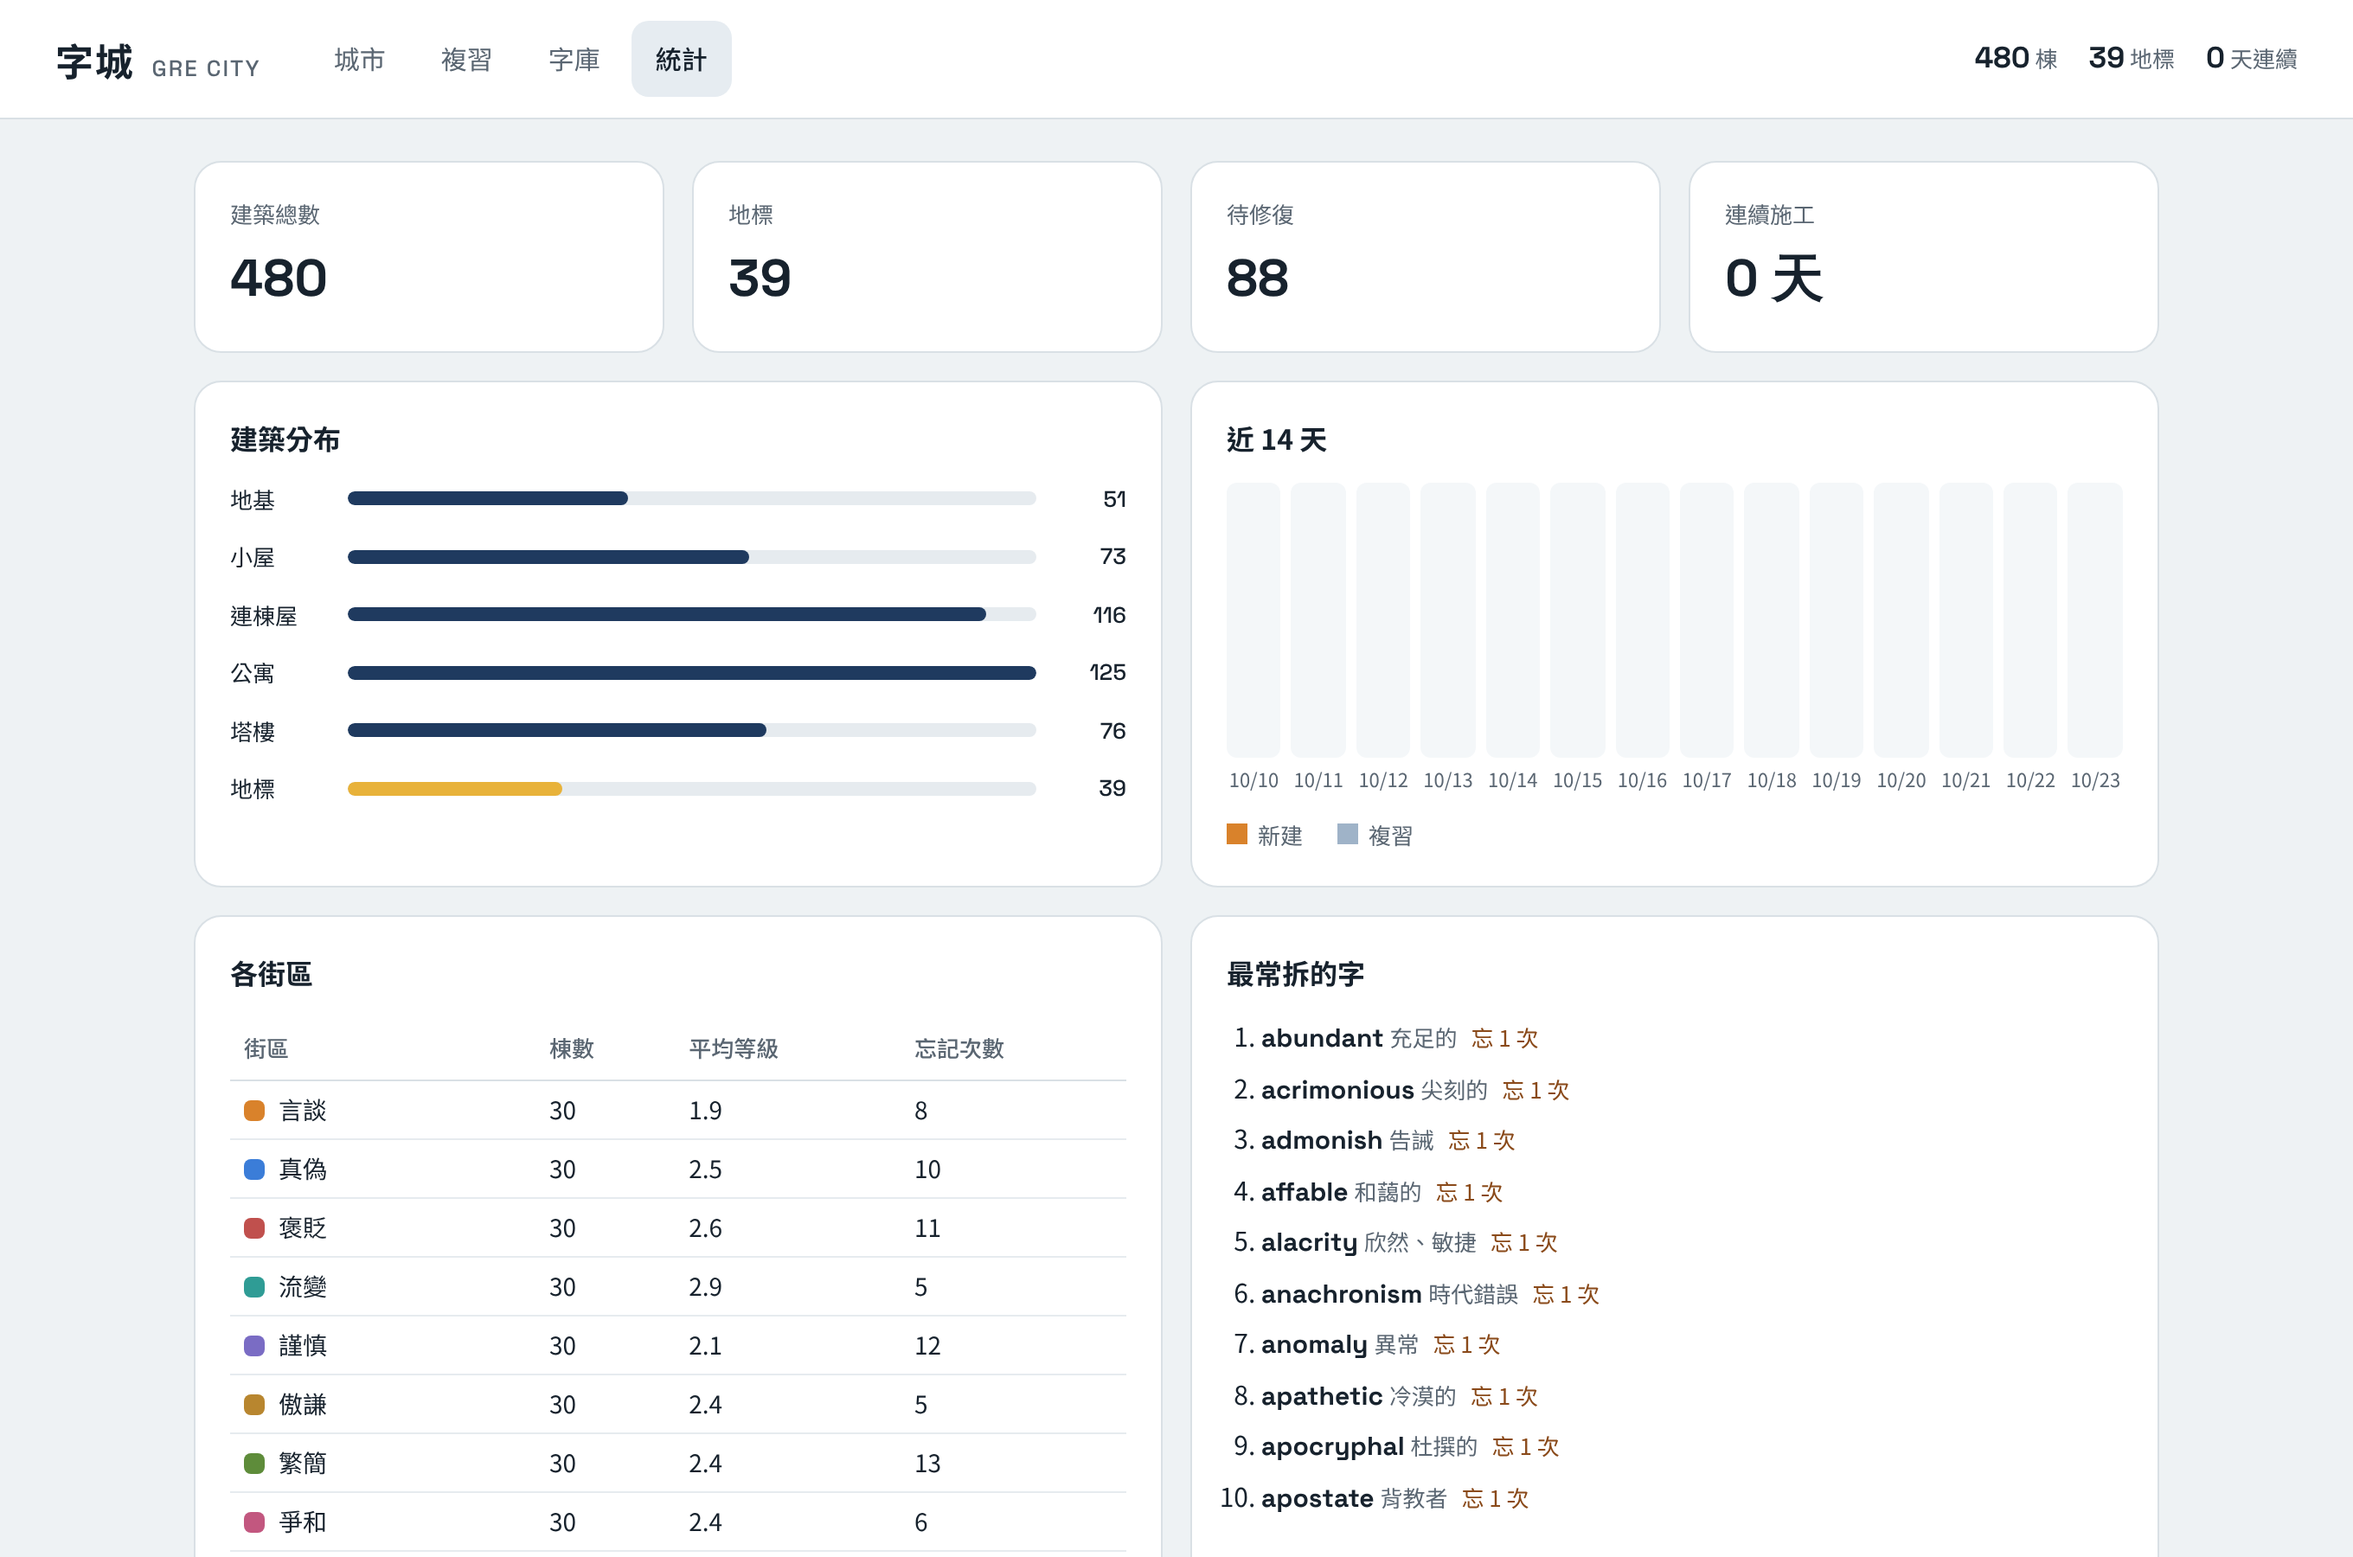
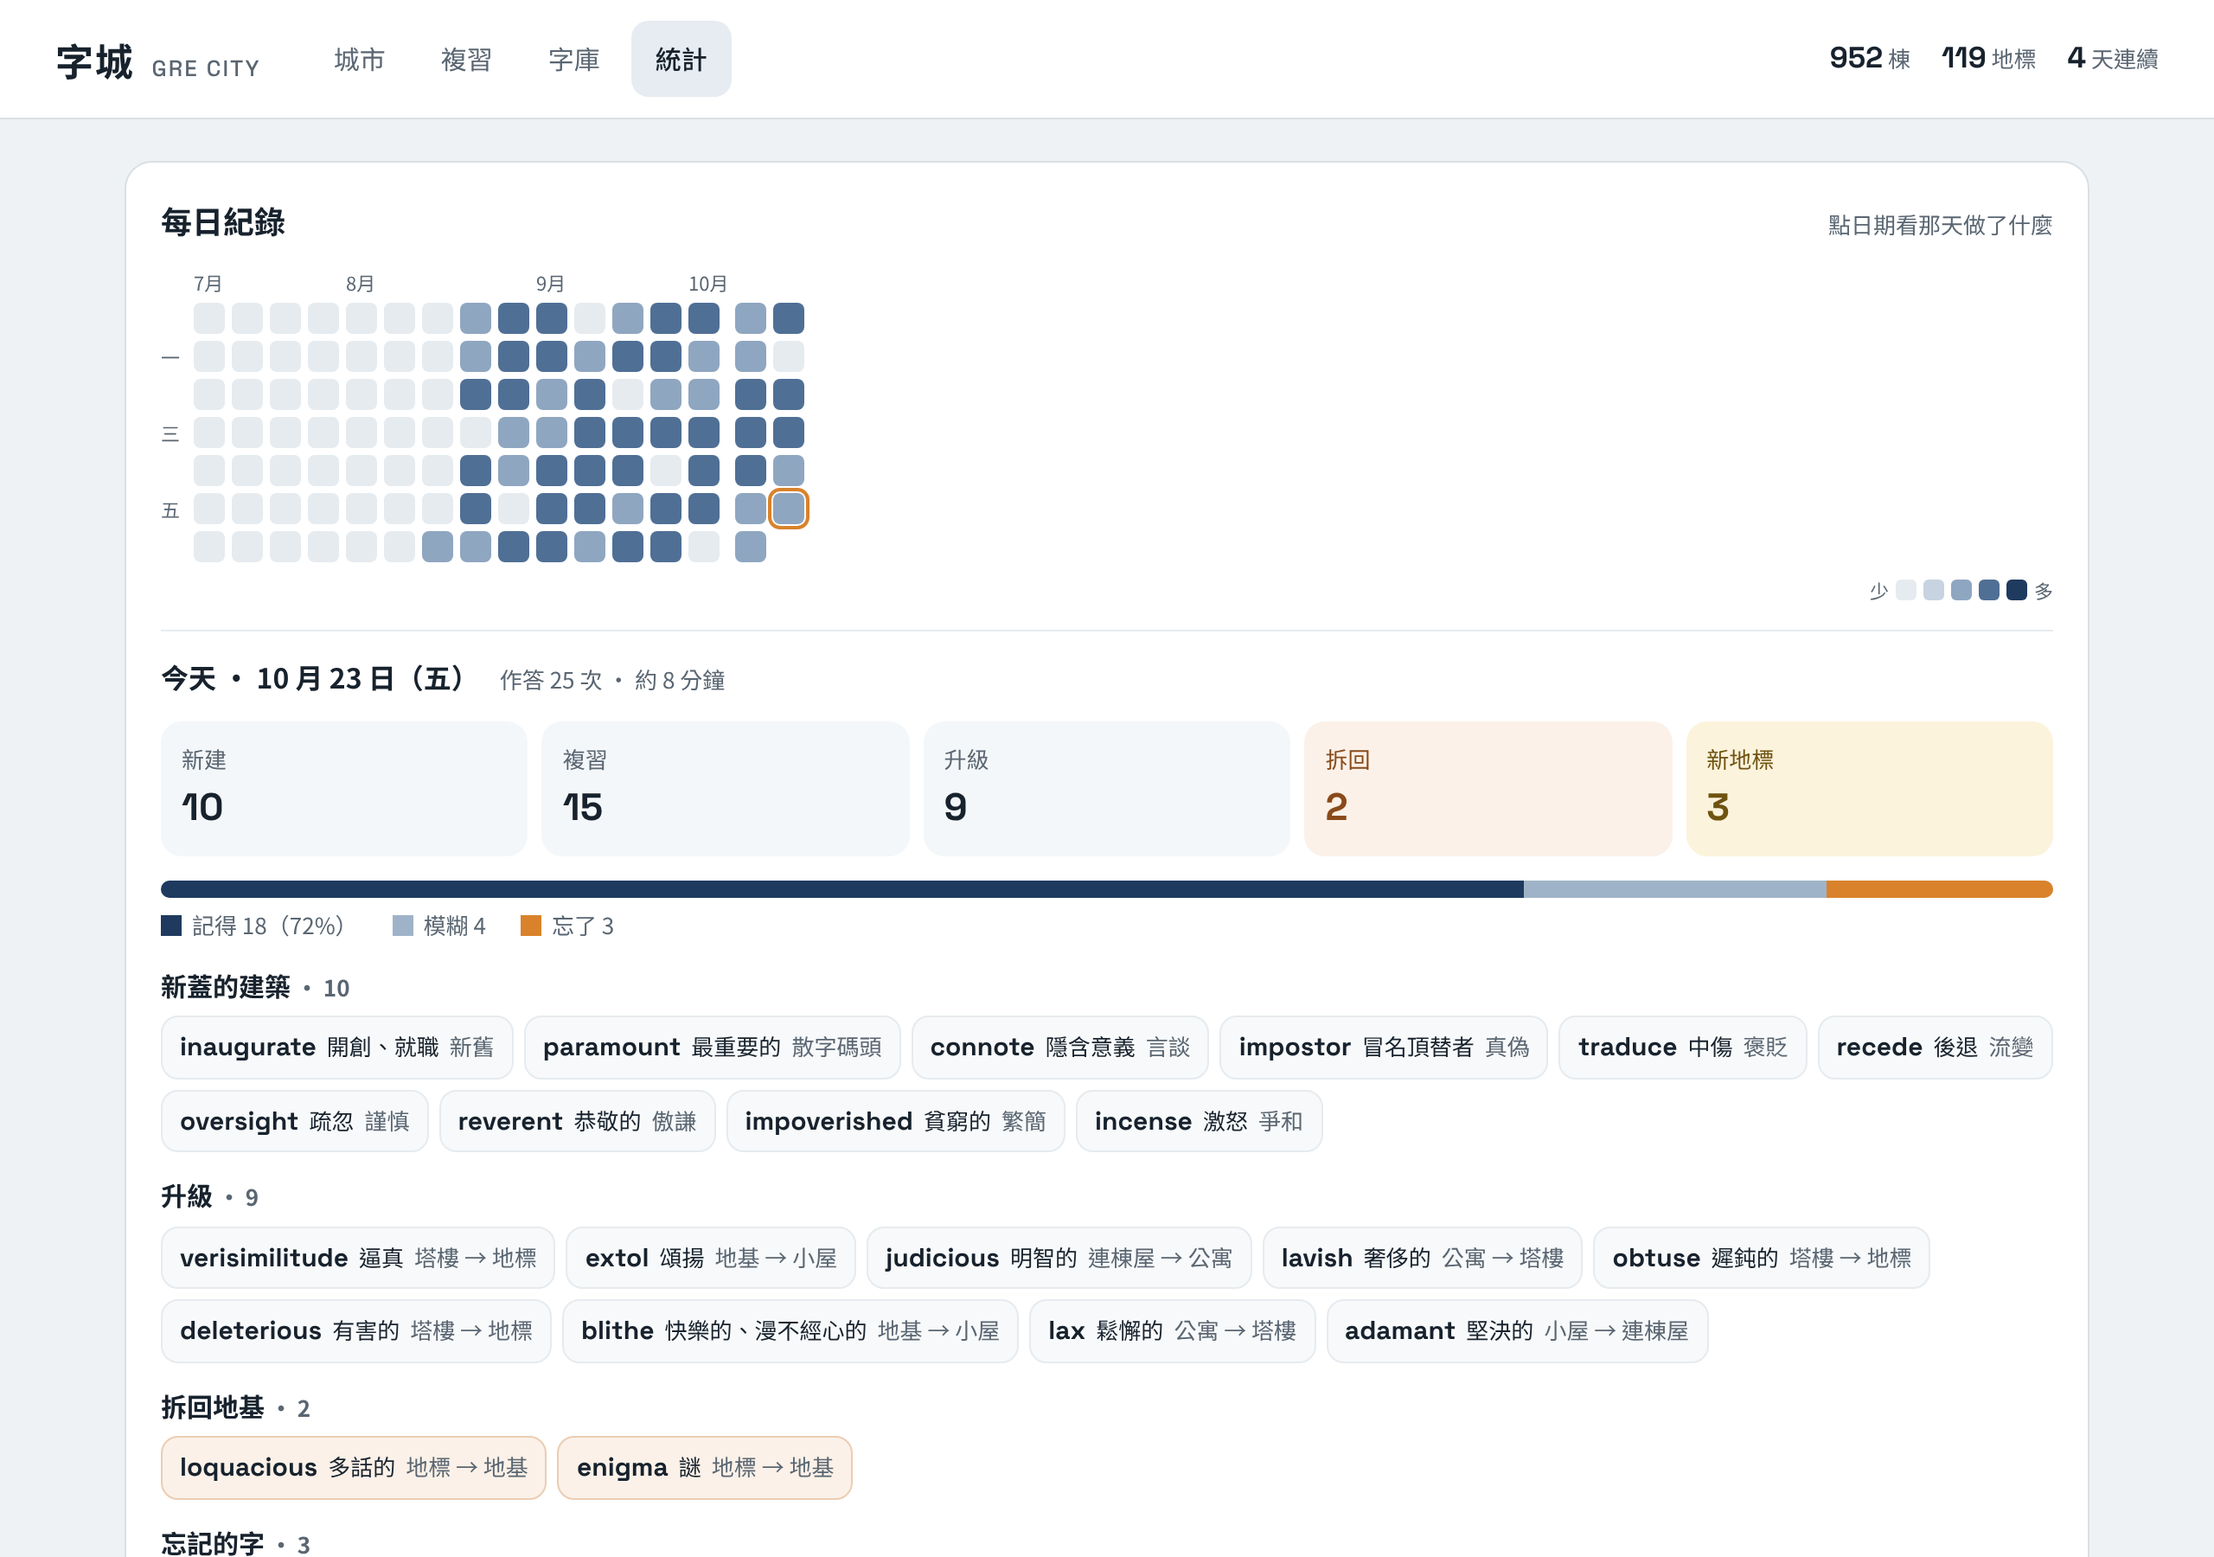
README: daily log screenshot
Claude-Session: https://claude.ai/code/session_015BagGF3dJNBEMAhortGT5m

diff --git a/README.md b/README.md
@@ -24,6 +24,10 @@
   <img src="docs/images/study-done.png" width="260" alt="答對後建築升級">
 </p>
 
+**統計頁的每日紀錄**：點日曆上任一天，看那天蓋了什麼、升級和拆掉了哪些、忘了哪些字。
+
+![統計頁：每日紀錄](docs/images/daily-log.png)
+
 ## 建築與複習間隔
 
 ![六種建築與荒廢狀態](docs/images/building-types.png)
